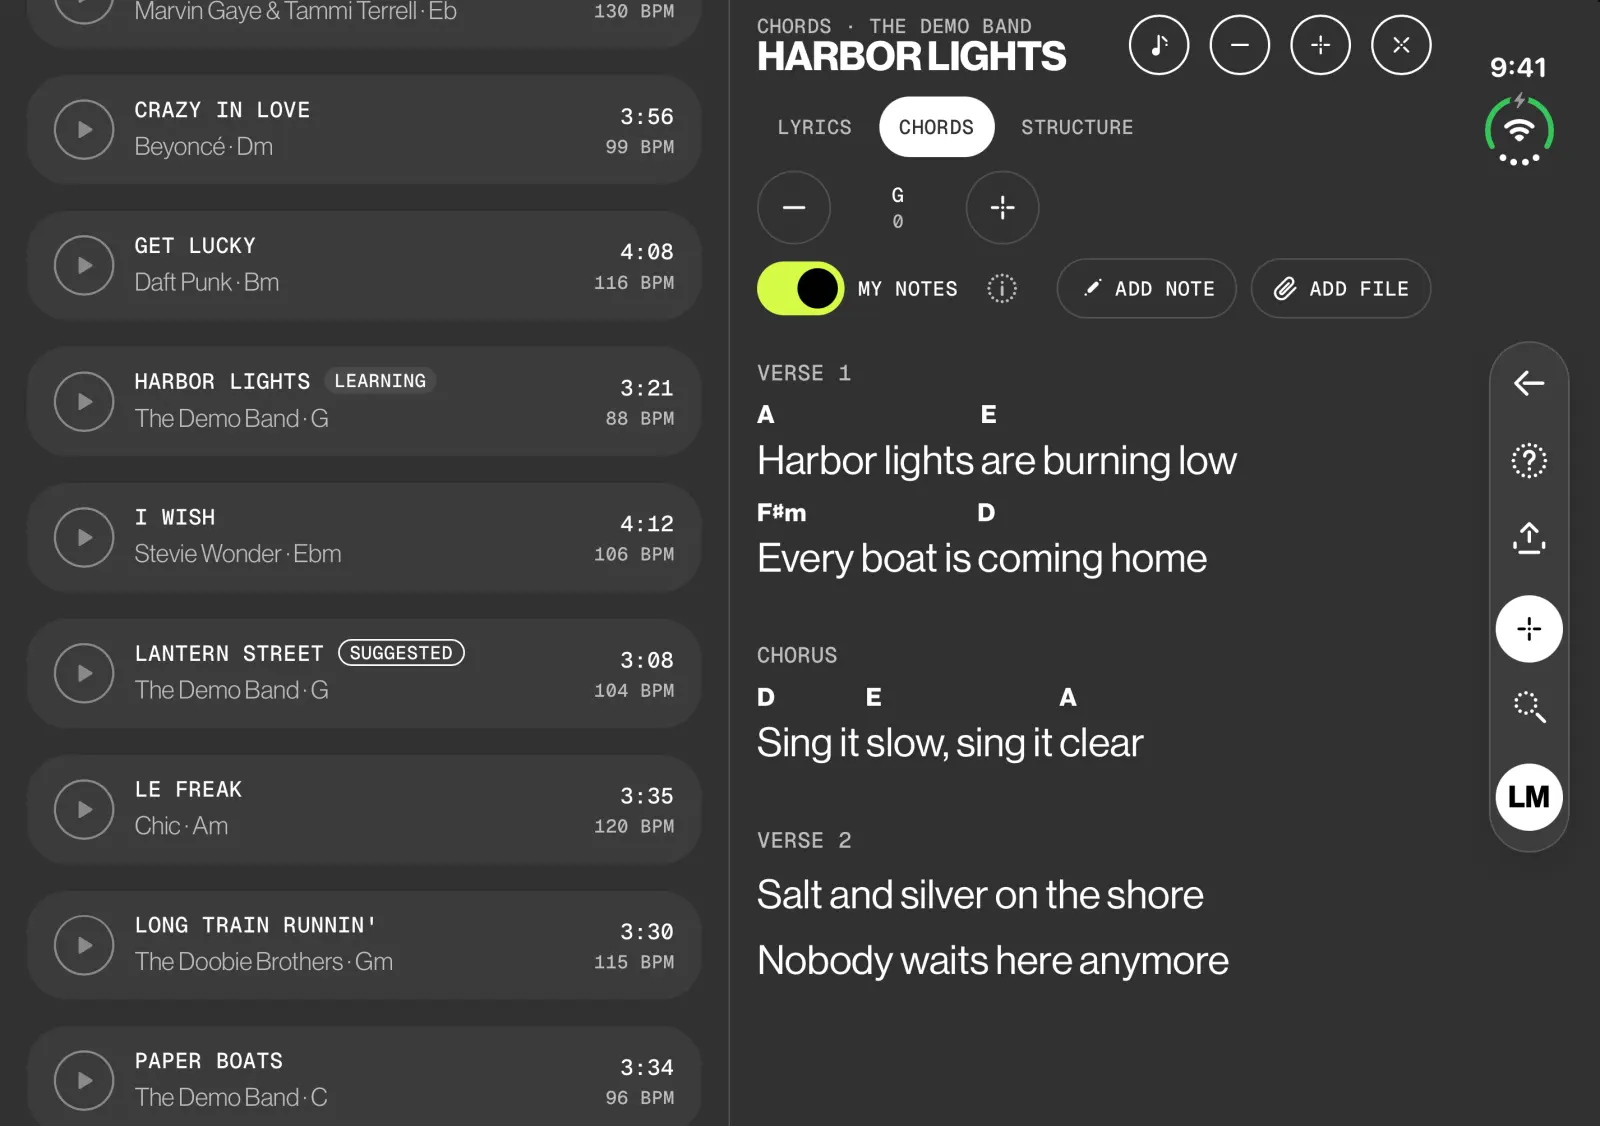
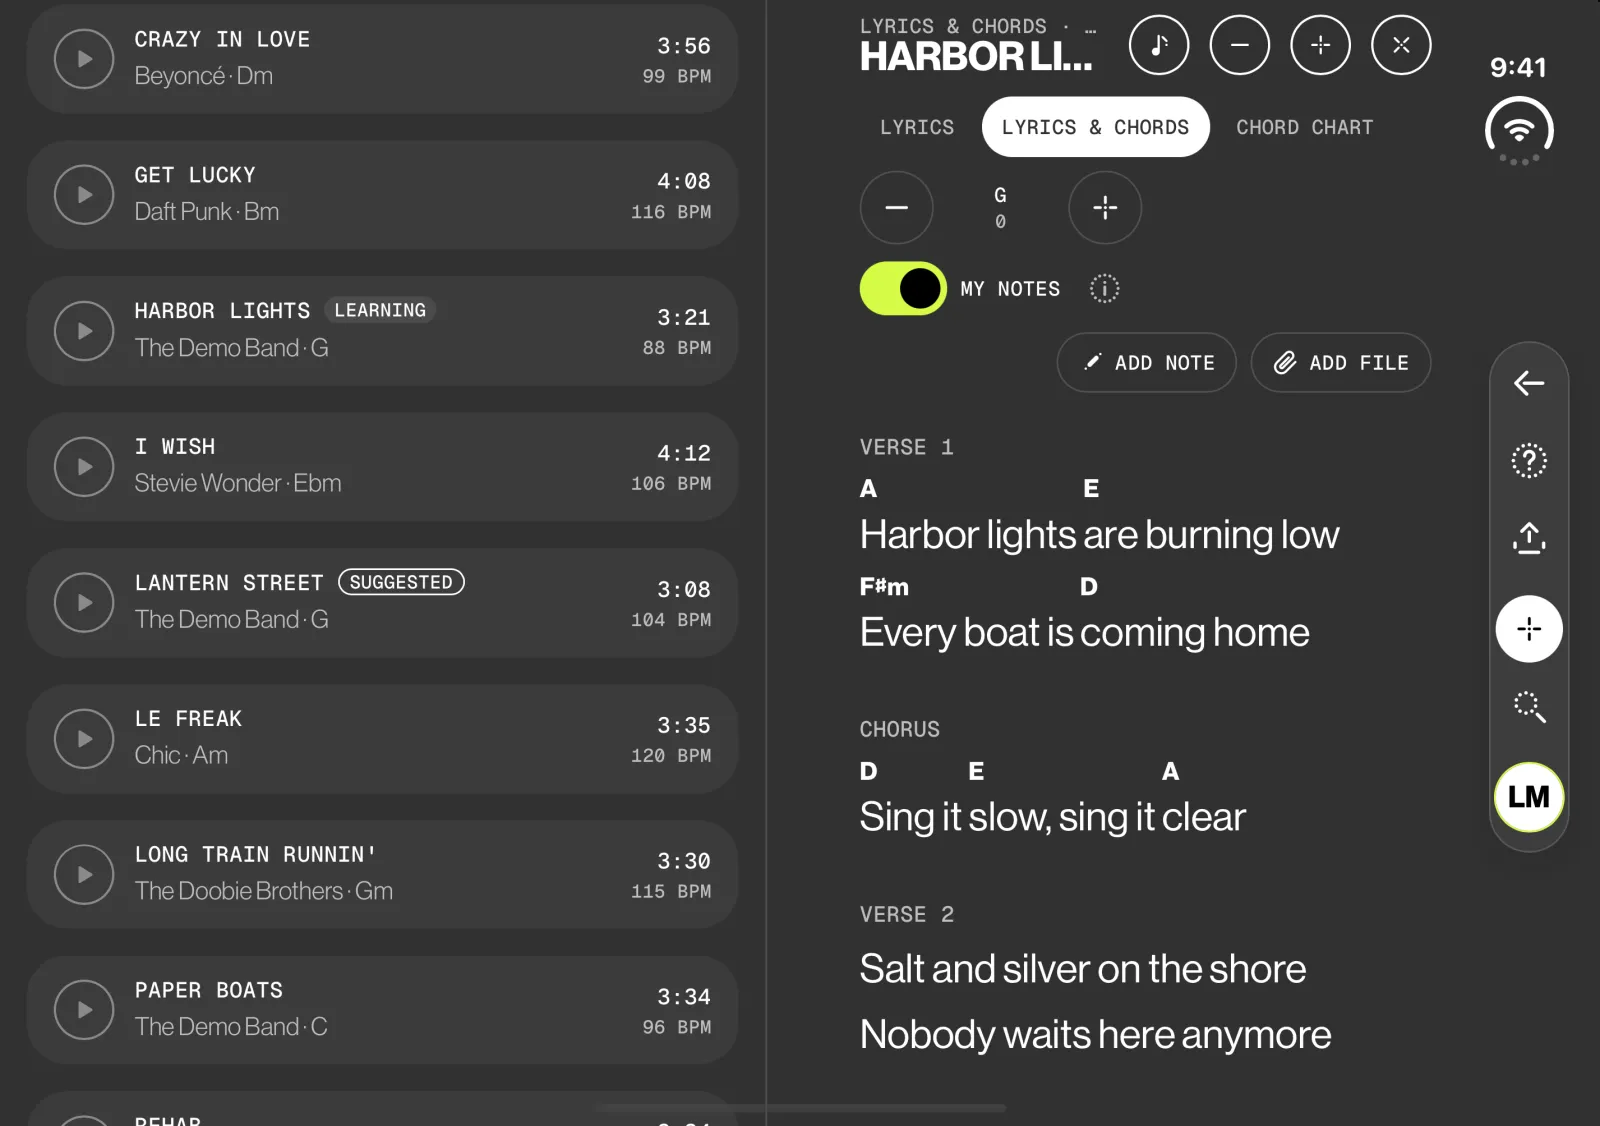
docs(academy): Duo shots of Song only (closed, book, laptop) and the reader with the new names

diff --git a/academy/content/shotFiles.ts b/academy/content/shotFiles.ts
@@ -20,7 +20,7 @@ export const SHOT_FILES: Record<string, ShotDevice[]> = {
   'music-rehearsal-live': ['phone', 'tablet', 'web'],
   'music-repertoire': ['phone', 'tablet', 'web', 'duoClosed', 'duoBook'],
   'music-setlist-editor': ['phone', 'tablet', 'web', 'duoClosed', 'duoBook'],
-  'music-song-only': ['phone', 'tablet', 'web'],
+  'music-song-only': ['phone', 'tablet', 'web', 'duoClosed', 'duoBook', 'duoLaptop'],
   'music-stage': ['phone', 'tablet', 'web', 'duoClosed', 'duoBook', 'duoLaptop'],
   'music-suggestions': ['phone', 'tablet', 'web', 'duoClosed', 'duoBook'],
   'people-band-members': ['phone', 'tablet', 'web', 'duoClosed', 'duoBook'],
